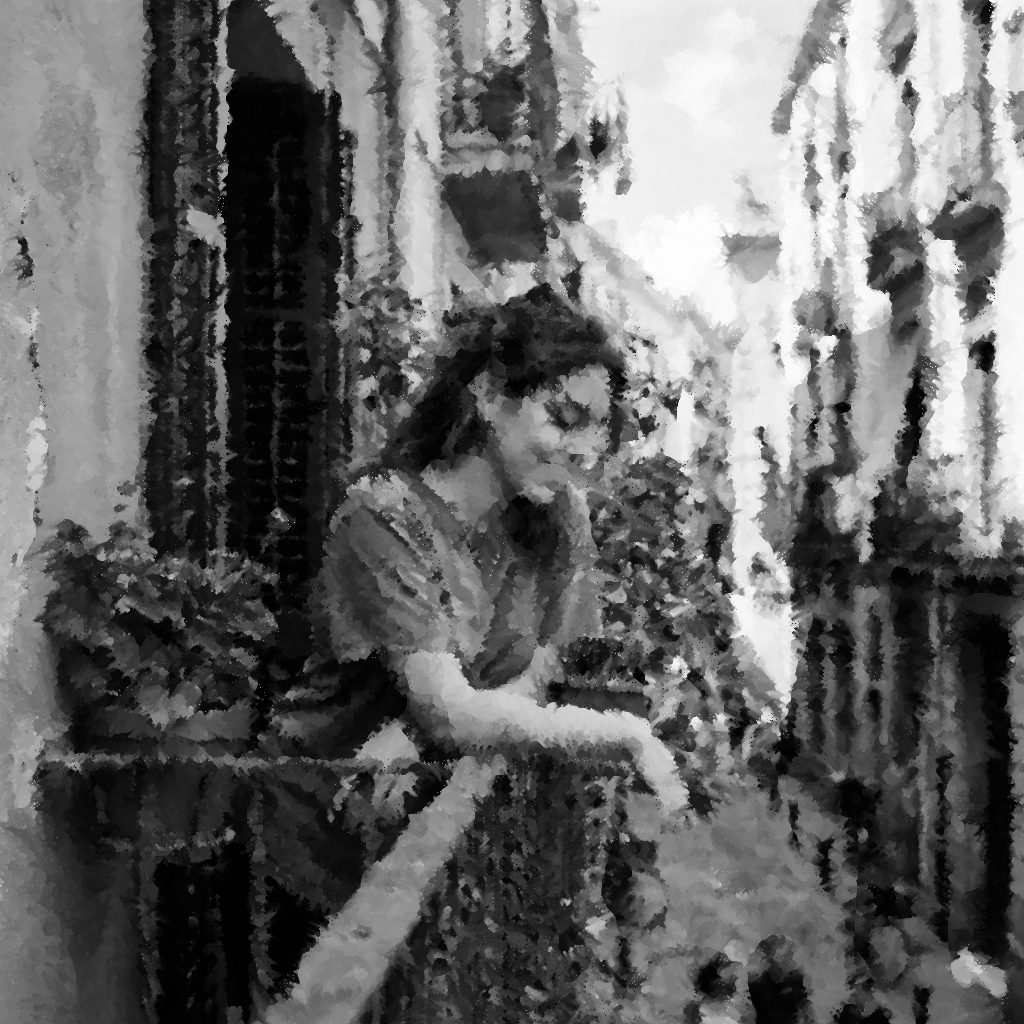
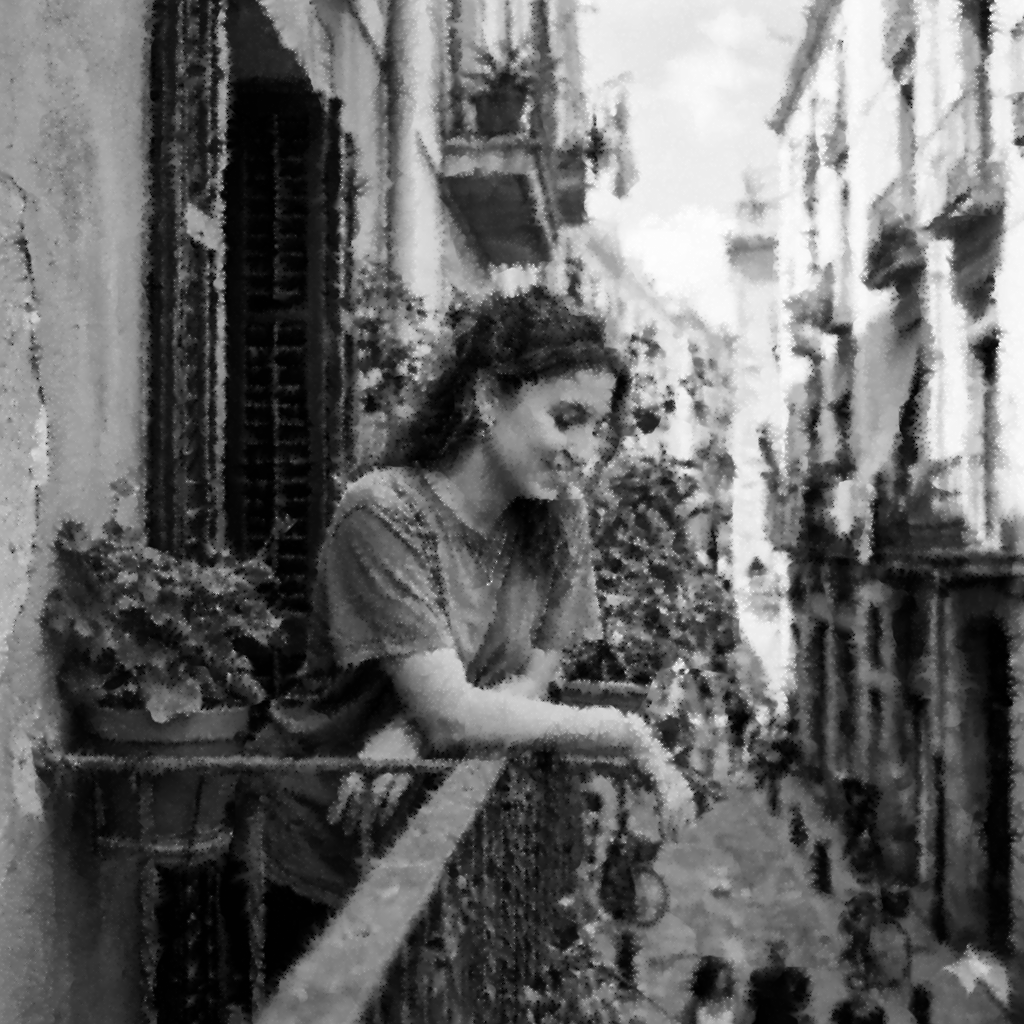
PSNR : 19.81>22.03 SSIM : 0.5653>0.6724

diff --git a/Filtering_Methods.py b/Filtering_Methods.py
@@ -61,11 +61,11 @@ def median_filter(A):
             # 노이즈인 곳을 계산에서 배제하기 위해 NaN으로 처리
             surr_to_update[~mask_to_update] = np.nan
             
-            # Runtime Warning 방지 및 안전한 정상 픽셀들의 중앙값 도출
+            # Runtime Warning 방지 및 안전한 정상 픽셀들의 평균값 도출
             with np.errstate(all='ignore'):
-                med_vals = np.nanmedian(surr_to_update, axis=1)
+                med_vals = np.nanmean(surr_to_update, axis=1)
             
-            # 복구된 중앙값을 대입
+            # 복구된 평균값을 대입
             img_filt[update_mask] = med_vals.astype(np.uint8)
             
             # 추가 변경이 발생했으므로 k 값은 깎지 않고 유지합니다.
